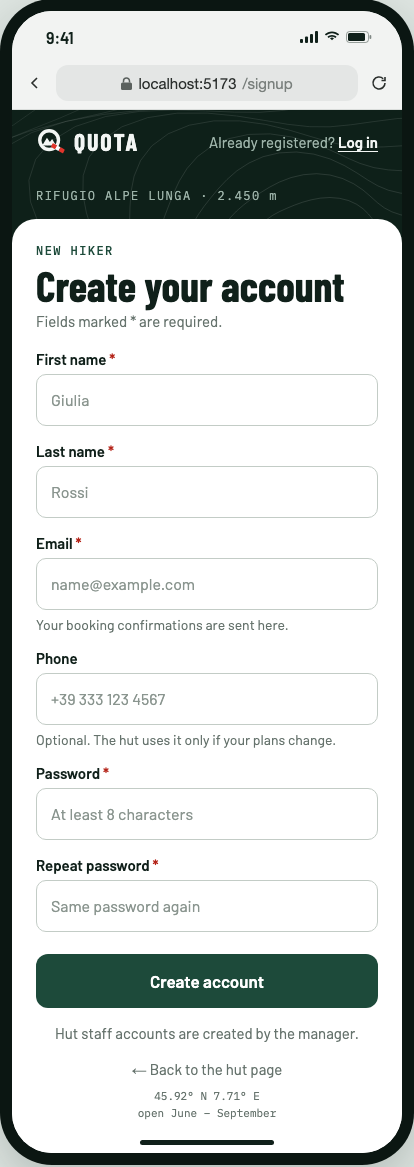
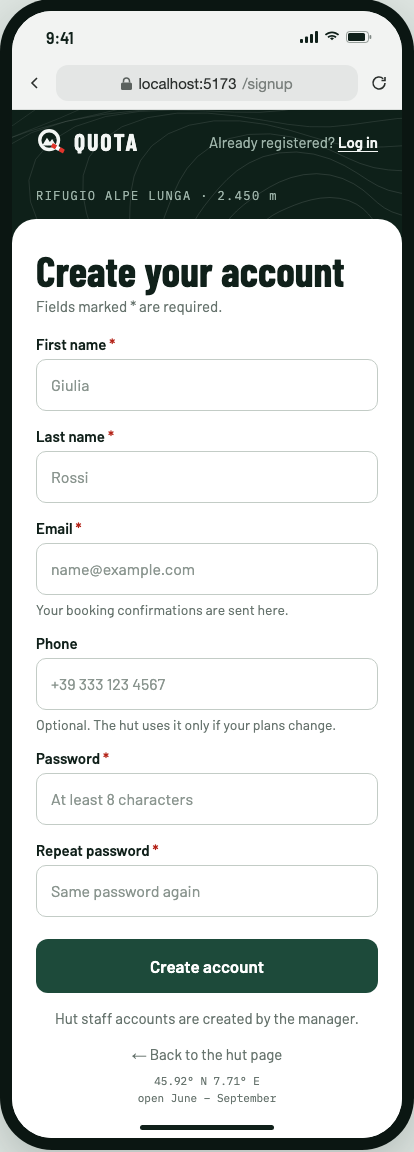
docs: remove the labels above the login and sign-up titles (MH-45)
Review of #8: "Welcome back" and "New hiker" did not help the user,
like the sentence removed before. Removed from the 6 desktop and 6 phone
screens, in Figma and in the repo.

diff --git a/docs/mockups/login/phone.html b/docs/mockups/login/phone.html
@@ -57,7 +57,6 @@
 
   /* the form sheet slides over the hero */
   .form { background: var(--snow); border-radius: 24px 24px 0 0; margin-top: -24px; padding: 24px 24px 30px; position: relative; flex: 1; display: flex; flex-direction: column; }
-  .eyebrow { font-family: var(--f-mono); font-size: 12px; font-weight: 500; letter-spacing: .12em; text-transform: uppercase; color: var(--pine); }
   h1 { font-family: var(--f-display); font-weight: 700; font-size: 42px; line-height: 1; margin: 6px 0 6px; }
   .sub { color: var(--stone); font-size: 15px; margin: 0 0 20px; }
   .field { margin-bottom: 16px; }
@@ -166,14 +165,14 @@ const field = ({ label, req, ph, val, err, help, focus }) => `<div class="field 
 const foot = `<div class="foot"><span class="back">← Back to the hut page</span><span class="coords">45.92° N 7.71° E<br>open June – September</span></div>`;
 
 const login = ({ alert, email = {}, password = {}, busy }) => `${status()}${urlbar("/login")}${hero("No account? <b>Sign up</b>")}<div class="form">
-  <div class="eyebrow">Welcome back</div><h1 style="margin-bottom:20px">Log in</h1>${alert || ""}
+  <h1 style="margin-bottom:20px">Log in</h1>${alert || ""}
   ${field({ label: "Email", ph: "name@example.com", ...email })}${field({ label: "Password", ph: "Your password", ...password })}
   <div class="forgot">Forgot password? Ask the hut staff.</div>
   <button class="btn primary ${busy ? "busy" : ""}">${busy ? '<i class="spinner"></i>Logging in…' : "Log in"}</button>
   <div class="alt-line">New here? <b>Create a hiker account</b></div>${foot}</div>`;
 
 const signup = (f) => `${status()}${urlbar("/signup")}${heroCompact("Already registered? <b>Log in</b>")}<div class="form">
-  <div class="eyebrow">New hiker</div><h1>Create your account</h1><p class="sub">Fields marked * are required.</p>
+  <h1>Create your account</h1><p class="sub">Fields marked * are required.</p>
   ${field({ label: "First name", req: 1, ph: "Giulia", ...f.first })}${field({ label: "Last name", req: 1, ph: "Rossi", ...f.last })}
   ${field({ label: "Email", req: 1, ph: "name@example.com", help: "Your booking confirmations are sent here.", ...f.email })}
   ${field({ label: "Phone", ph: "+39 333 123 4567", help: "Optional. The hut uses it only if your plans change.", ...f.phone })}
